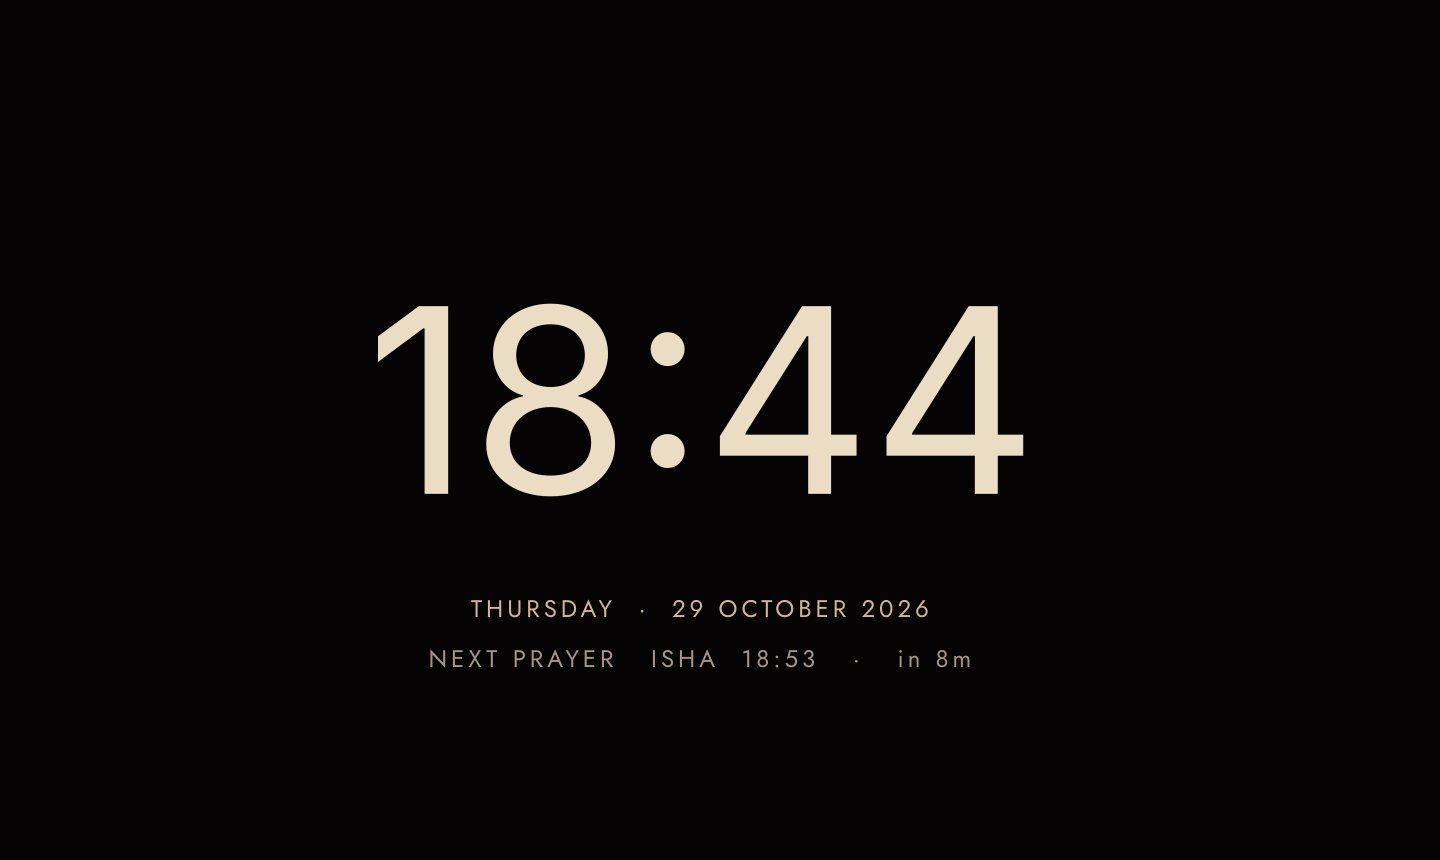
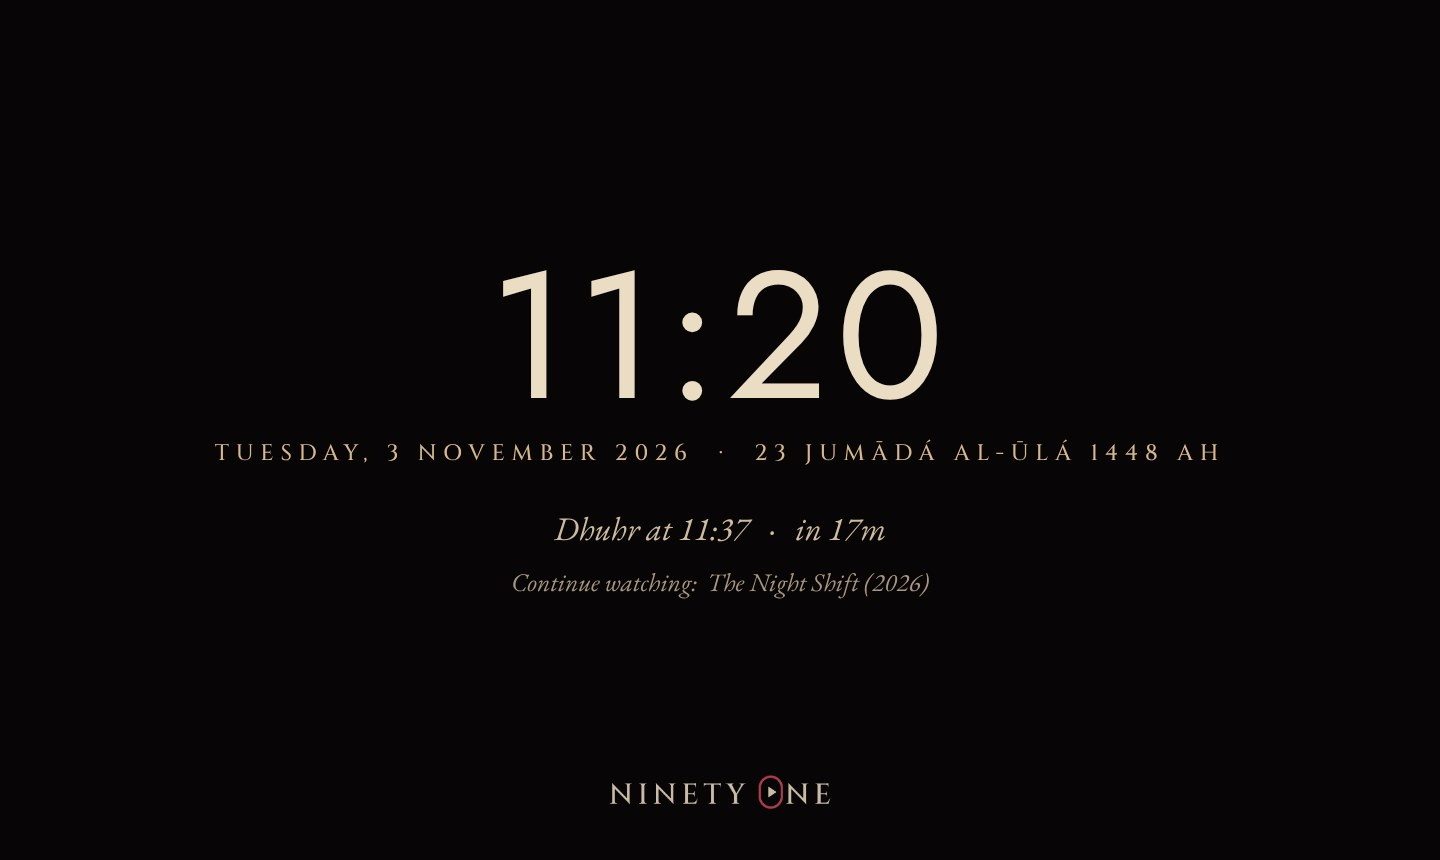
Site: screensaver picture now matches the real screen
Claude-Session: https://claude.ai/code/session_018YPp45AmfmdaYeqfQ7N2CE

diff --git a/docs/index.html b/docs/index.html
@@ -387,7 +387,7 @@ footer .wrap>span:last-child{display:flex;flex-wrap:wrap;gap:10px 22px}
 <span class="eyebrow" data-ar="شاشة التوقف الهادئة">Ambient screensaver</span>
 <h2 data-ar="جميل حتى وهو في وضع الراحة.">Beautiful, even when it's resting.</h2>
 <p data-ar="بعد بضع دقائق هادئة، ينتقل &lt;bdi&gt;91 TV&lt;/bdi&gt; إلى ساعة ناعمة مع التاريخ وصلاتك القادمة، لطيفة على شاشات &lt;bdi&gt;OLED&lt;/bdi&gt; وجميلة في الغرفة المظلمة.">After a few quiet minutes, 91 TV fades to a soft clock with the date and your next prayer, gentle on OLED screens and lovely in a dark room.</p>
-<ul><li data-ar="الساعة والتاريخ والصلاة القادمة">Clock, date and next prayer</li><li data-ar="أو عرض صور من مكتبتك">Or a slideshow of your library's artwork</li></ul>
+<ul><li data-ar="الساعة والتاريخ الميلادي والهجري والصلاة القادمة وما كنت تشاهده">Clock, date (with Hijri), next prayer and what you were watching</li><li data-ar="أو عرض صور من مكتبتك">Or a slideshow of your library's artwork</li></ul>
 </div>
 <figure class="frame" data-ar="شاشة التوقف · شاشة حقيقية من &lt;bdi&gt;91 TV&lt;/bdi&gt;" style="margin:0"><img alt="91 TV screensaver clock" height="860" loading="lazy" src="site/shot-saver.jpg" width="1440"/><figcaption>Screensaver · real screen from 91 TV</figcaption></figure>
 </div>
